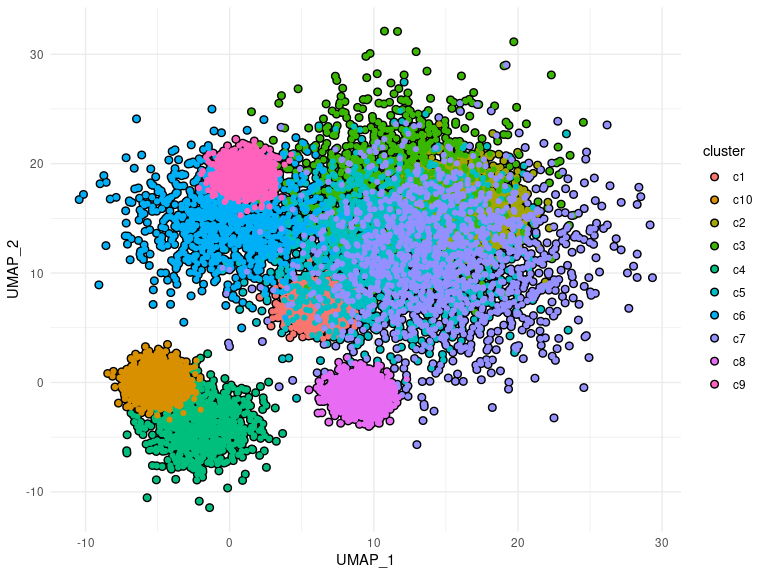
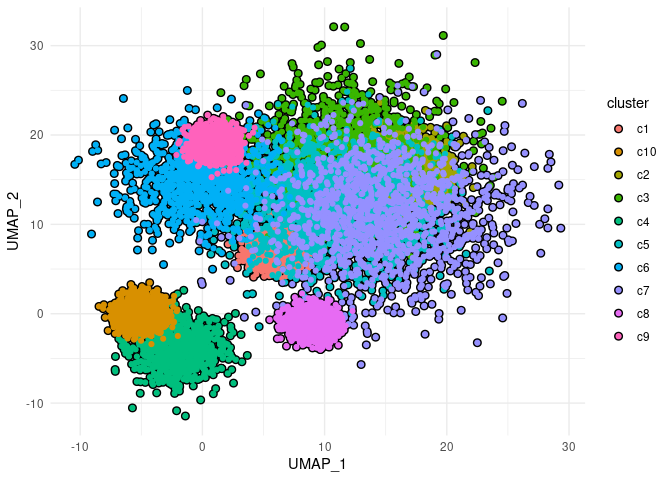
updated README

diff --git a/README.md b/README.md
@@ -74,9 +74,7 @@ ggplot(
   aes(UMAP_1, UMAP_2, trace_color = cluster)
 ) +
   theme_minimal() +
-  geom_point_trace(
-    trace_size = 2
-  )
+  geom_point_trace()
 ```
 
 <img src="man/figures/README-unnamed-chunk-3-1.png" width="100%" />
@@ -112,8 +110,7 @@ p <- ggplot(
 
 p +
   geom_point_trace(
-    color      = "white",
-    trace_size = 2
+    color = "white"
   ) +
   scale_trace_color_manual(
     values = c("red", "#0072B2")
@@ -162,15 +159,15 @@ p +
 
 <img src="man/figures/README-unnamed-chunk-7-1.png" width="100%" />
 
+The color of background points can be modified using the
+`background_color` argument.
+
 ``` r
-clusters %>%
-  ggplot(aes(UMAP_1, UMAP_2, color = cluster)) +
+p +
   geom_point_trace(
-    trace_position = signal < 0,
-    background_color = "grey80",
-    trace_color = NA,
-    alpha = 0.1,
-    size = 5
-  ) +
-  theme_void()
+    trace_position   = signal < 0,
+    background_color = "grey75"
+  )
 ```
+
+<img src="man/figures/README-unnamed-chunk-8-1.png" width="100%" />
